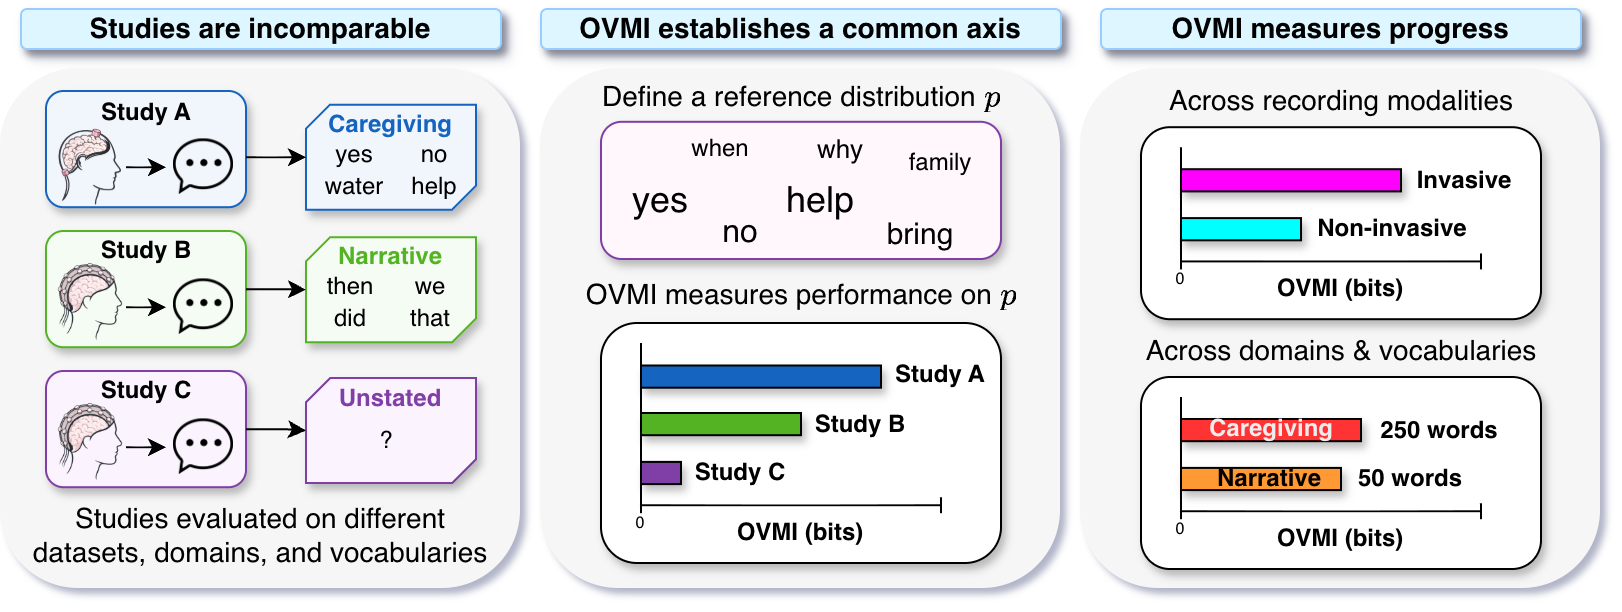
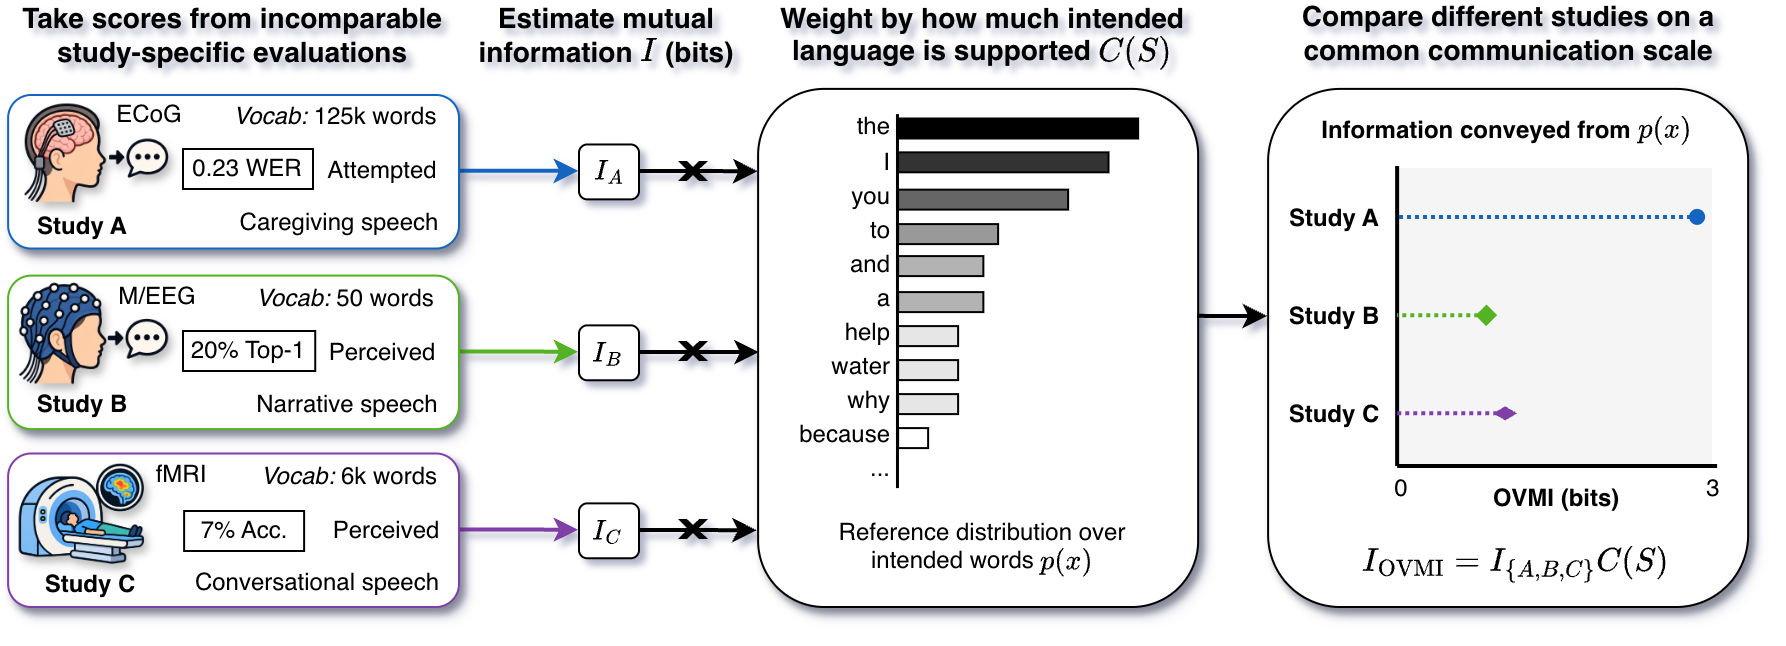
Update links

diff --git a/site/index.html b/site/index.html
@@ -43,7 +43,7 @@
         </p>
         <p class="paper-affiliation"><a href="https://neural-processing-lab.github.io/" rel="noopener noreferrer">PNPL🍍, University of Oxford</a></p>
         <div class="hero-actions" aria-label="Project links">
-          <a class="button button-primary" data-config-link="paper" href="#project-links">
+          <a class="button button-primary" data-config-link="paper" href="https://arxiv.org/abs/2609.02887" rel="noopener noreferrer">
             <svg class="button-icon" viewBox="0 0 20 20" aria-hidden="true"><path d="M5.5 2.5h6l3 3v12h-9z"/><path d="M11.5 2.5v3h3M8 9h4M8 12h4M8 15h3"/></svg>
             <span>Paper</span>
           </a>
@@ -150,7 +150,7 @@
       <div class="leaderboard-notes">
         <aside id="methodology">
           <h3>How are scores calculated?</h3>
-          <p>Historical results are estimated from reported accuracy or WER where full decoder channels are unavailable. <a data-config-link="paper" href="#project-links">See the paper</a> for assumptions and uncertainty estimation.</p>
+          <p>Historical results are estimated from reported accuracy or WER where full decoder channels are unavailable. <a data-config-link="paper" href="https://arxiv.org/abs/2609.02887" rel="noopener noreferrer">See the paper</a> for assumptions and uncertainty estimation.</p>
         </aside>
         <aside id="add-result">
           <h3>Add a result</h3>
@@ -214,12 +214,12 @@ print(score)</code></pre>
         <div>
           <p class="section-index">Citation</p>
           <h3>Cite this paper</h3>
-          <p>The repository does not yet contain the final arXiv identifier. Replace <code>PLACEHOLDER</code> when it is assigned.</p>
+          <p>Use the following BibTeX entry to cite the arXiv preprint.</p>
         </div>
         <pre><code>@article{jayalath2026ovmi,
   title={A Common Measure of Communication for Speech Brain--Computer Interfaces},
   author={Jayalath, Dulhan and Ballyk, Benjamin and Parker Jones, Oiwi},
-  journal={arXiv preprint arXiv:PLACEHOLDER},
+  journal={arXiv preprint arXiv:2609.02887},
   year={2026}
 }</code></pre>
       </div>
@@ -229,7 +229,7 @@ print(score)</code></pre>
       <p class="section-index">05 / Project</p>
       <h2 id="links-title">Paper and project links</h2>
       <div class="link-status-grid">
-        <p id="paper-status"><strong>Paper.</strong> The public paper URL has not yet been supplied. Update <code>site/config.js</code> when it is available.</p>
+        <p id="paper-status"><strong>Paper.</strong> <a href="https://arxiv.org/abs/2609.02887" rel="noopener noreferrer">Read the arXiv preprint.</a></p>
         <p id="blog-status"><strong>Blog.</strong> The public article URL has not yet been supplied. Update <code>site/config.js</code> when it is available.</p>
       </div>
     </section>

diff --git a/site/config.js b/site/config.js
@@ -3,7 +3,7 @@ window.OVMI_SITE_CONFIG = Object.freeze({
   repositoryUrl: "https://github.com/neural-processing-lab/OVMI",
   packageUrl: "https://github.com/neural-processing-lab/OVMI",
   addResultUrl: "https://github.com/neural-processing-lab/OVMI/issues/new?template=add-ovmi-result.yml",
-  paperUrl: null,
+  paperUrl: "https://arxiv.org/abs/2609.02887",
   blogUrl: null,
   unavailableLinkTarget: "#project-links"
 });

diff --git a/scripts/make_contour_figure.py b/scripts/make_contour_figure.py
@@ -23,6 +23,7 @@ DEFAULT_FRONTIER_INPUT = PROJECT_ROOT / "data/noiseless_frequency_frontier.csv"
 DEFAULT_OUTPUT_DIR = PROJECT_ROOT / "figures"
 CONTOUR_LEVELS = (0.01, 0.1, 1.0, 3.0, 10.0)
 REFERENCE_STEMS = {"subtlex-uk": "subtlex"}
+ISO_CONTOUR_COLOR = "#51406F"
 
 COLORS = {
     "MEG-MASC": "#0072B2",
@@ -214,36 +215,38 @@ def draw_contours(axis, x_limits, y_limits, scale: str) -> None:
     for index, level in enumerate(CONTOUR_LEVELS):
         y = level / x
         visible = (y >= y_limits[0]) & (y <= y_limits[1])
-        axis.plot(x[visible], y[visible], color="#A7ADB3", linewidth=1.25, zorder=0)
+        # Keep iso-OVMI guides subordinate to the grid and data marks.
+        axis.plot(
+            x[visible], y[visible], color=ISO_CONTOUR_COLOR, linewidth=0.85,
+            alpha=0.62, zorder=-3,
+        )
         if not np.any(visible):
             continue
         visible_indices = np.flatnonzero(visible)
         if scale == "log":
-            # Fixed anchors keep contour labels out of the dense system clusters.
-            target_x = {
-                0.01: 0.13,
-                0.1: 0.65,
-                1.0: 0.38,
-                3.0: 0.35,
-                10.0: 0.84,
-            }[level]
-            label_index = visible_indices[
-                np.argmin(np.abs(x[visible_indices] - target_x))
-            ]
+            # Put every label at the right-hand end of its contour, where it
+            # reads as a family of parallel guides rather than point labels.
+            if level == 10.0 and scale == "log":
+                target_x = min(x_limits[1] * 0.82, float(x[visible_indices[-1]]))
+                label_index = visible_indices[
+                    np.argmin(np.abs(x[visible_indices] - target_x))
+                ]
+            else:
+                label_index = visible_indices[-1]
         elif level in {0.01, 0.1}:
             label_fraction = {0.01: 0.82, 0.1: 0.72}[level]
         else:
             label_fraction = 0.55 if level == 10 else 0.25 + 0.11 * (index % 3)
         if scale != "log":
             label_index = visible_indices[int(label_fraction * (len(visible_indices) - 1))]
-        rotation = -31 if scale == "log" and level < 10 else 0
-        vertical_alignment = "top" if scale == "log" and level >= 3 else "bottom"
+        rotation = 0
+        vertical_alignment = "top" if scale == "log" and level >= 10 else "bottom"
         axis.text(
             x[label_index], y[label_index], f"{level:g} bit" + ("s" if level != 1 else ""),
-            color="#626A73", fontsize=9.0, fontweight="semibold", rotation=rotation,
-            ha="center", va=vertical_alignment, clip_on=True,
-            bbox={"facecolor": "white", "edgecolor": "none", "alpha": 0.72, "pad": 0.35},
-            zorder=1,
+            color=ISO_CONTOUR_COLOR, fontsize=8.5, fontweight="semibold", rotation=rotation,
+            ha="right", va=vertical_alignment, clip_on=True,
+            bbox={"facecolor": "white", "edgecolor": "none", "alpha": 1.0, "pad": 0.35},
+            zorder=6,
         )
 
 
@@ -371,9 +374,9 @@ def add_legend(
     axis, data: pd.DataFrame, neural_only: bool, styled: bool = False,
 ) -> None:
     encoding_handles = [
-        Line2D([], [], marker="o", markersize=7.5, linestyle="none", markerfacecolor="white", markeredgecolor="#374151", markeredgewidth=1.4, label="Perceived / non-invasive"),
-        Line2D([], [], marker="o", markersize=7.5, linestyle="none", markerfacecolor="#6B7280", markeredgecolor="#374151", markeredgewidth=1.4, label="Attempted / invasive"),
-        Line2D([], [], color="#A7ADB3", linewidth=1.25, label=r"Iso-OVMI (slope $-1$)"),
+        Line2D([], [], marker="o", markersize=7.5, linestyle="none", markerfacecolor="white", markeredgecolor="#374151", markeredgewidth=1.4, label="Open markers: non-invasive"),
+        Line2D([], [], marker="s", markersize=7.0, linestyle="none", markerfacecolor="#374151", markeredgecolor="#374151", markeredgewidth=1.4, label="Filled markers: invasive"),
+        Line2D([], [], color=ISO_CONTOUR_COLOR, alpha=0.72, linewidth=0.85, label=r"Iso-OVMI (slope $-1$)"),
         Line2D([], [], color="#6B7280", linestyle=(0, (3.0, 2.3)), linewidth=1.15, label="Noiseless frequency-\nselected decoder"),
     ]
     if styled:
@@ -381,13 +384,13 @@ def add_legend(
             handles=styled_system_legend_handles(data, neural_only),
             loc="upper left", bbox_to_anchor=(1.025, 1.0),
             borderaxespad=0.0, frameon=False, fontsize=7.7,
-            handletextpad=0.55, labelspacing=0.15,
+            handletextpad=0.55, labelspacing=0.44,
         )
         axis.add_artist(system_legend)
         axis.legend(
             handles=encoding_handles, loc="lower left",
             bbox_to_anchor=(1.025, 0.0), borderaxespad=0.0,
-            frameon=False, handletextpad=0.6, labelspacing=0.30,
+            frameon=False, handletextpad=0.6, labelspacing=0.56,
             fontsize=7.8,
         )
     else:
@@ -427,6 +430,11 @@ def draw_panel(
     )
     axis.set_ylabel(r"$I(X;Y\mid X\in S)$ (bits)")
     axis.grid(True, which="major", color="#E2E5E9", linewidth=0.7, zorder=-2)
+    if scale == "log":
+        axis.grid(
+            True, which="minor", axis="x", color="#EEF0F2",
+            linewidth=0.45, alpha=0.9, zorder=-2,
+        )
     axis.tick_params(which="major", direction="out", length=4.5, width=1.1, pad=5)
     axis.tick_params(axis="x", which="major", pad=2)
     axis.tick_params(which="minor", direction="out", length=2.5, width=0.8)

diff --git a/scripts/make_reference_heatmap.py b/scripts/make_reference_heatmap.py
@@ -57,6 +57,7 @@ class HeatmapData:
     highs: np.ndarray
     uncertainty_kinds: tuple[str, ...]
     entropies: dict[str, float]
+    reference_sizes: dict[str, int]
 
 
 ROW_SPECS = (
@@ -68,7 +69,7 @@ ROW_SPECS = (
     HeatmapRow("tang_2023_v6867", "system", "Tang"),
     HeatmapRow(
         "dascoli_libribrain100_s0_v50", "neural",
-        "LibriBrain",
+        "LibriBrain100",
     ),
 )
 
@@ -112,6 +113,9 @@ def load_matrix(
     systems = pd.read_csv(systems_path)
     systems = systems.loc[systems["plot_eligible"].astype(bool)].copy()
     references, entropies = table.load_references(references_dir)
+    reference_sizes = {
+        key: len(references[key]) for key in REFERENCE_KEYS
+    }
     vocabularies = table.reconstruct_vocabularies(
         systems, references, predictions_dir, cmudict_path, armeni_text_path,
         meg_masc_vocabulary_path,
@@ -162,6 +166,7 @@ def load_matrix(
         highs=highs,
         uncertainty_kinds=tuple(uncertainty_kinds),
         entropies=entropies,
+        reference_sizes=reference_sizes,
     )
 
 
@@ -207,6 +212,12 @@ def draw_figure(data: HeatmapData):
     axis.tick_params(axis="x", which="major", length=0, pad=9)
     for label in axis.get_xticklabels():
         label.set_linespacing(1.30)
+    for column_index, reference_key in enumerate(REFERENCE_KEYS):
+        axis.text(
+            column_index, -0.055, f"V={data.reference_sizes[reference_key]:,}",
+            transform=axis.get_xaxis_transform(), ha="center", va="top",
+            fontsize=9.0, color="#374151",
+        )
     axis.tick_params(axis="y", which="major", length=0, pad=8, labelsize=10.0)
 
     axis.set_xticks(np.arange(-0.5, len(REFERENCE_LABELS), 1), minor=True)
@@ -253,22 +264,24 @@ def save_figure(figure, output_base: Path) -> None:
         print(f"Saved {output}")
 
 
-def write_caption(path: Path, entropies: dict[str, float]) -> None:
+def write_caption(
+    path: Path, entropies: dict[str, float], reference_sizes: dict[str, int],
+) -> None:
     entropy_text = ", ".join(
-        f"{label} {entropies[key]:.2f} bits"
+        f"{label} (V={reference_sizes[key]:,}), {entropies[key]:.2f} bits"
         for key, label in zip(REFERENCE_KEYS, REFERENCE_CAPTION_LABELS)
     )
     caption = (
         "Normalised OVMI across communication targets. Cell labels report "
         "OVMI/$H(p)$ as percentages; brackets give propagated 95\% intervals "
         "for invasive systems, while $\pm$ gives SEM across three training seeds "
-        "for LibriBrain or three participants for Tang; neither is a confidence "
+        "for LibriBrain100 or three participants for Tang; neither is a confidence "
         "interval. Reference distributions "
         "are treated as fixed. Colour uses a logarithmic 1--100\% scale "
         "to retain contrast among the lower-scoring systems. The invasive rows "
         "show the selected LM-assisted operating points, with Moses isolated "
         "retained as the corresponding neural-only result. The non-invasive rows "
-        "are Tang's participant-mean fMRI result and the d'Ascoli--LibriBrain "
+        "are Tang's participant-mean fMRI result and the d'Ascoli--LibriBrain100 "
         "method--dataset pair. Reference "
         "entropies are: "
         f"{entropy_text}."
@@ -299,7 +312,7 @@ def main() -> None:
     figure = draw_figure(data)
     save_figure(figure, args.output_base)
     plt.close(figure)
-    write_caption(args.caption_output, data.entropies)
+    write_caption(args.caption_output, data.entropies, data.reference_sizes)
 
 
 if __name__ == "__main__":

diff --git a/scripts/make_progress_over_time_figure.py b/scripts/make_progress_over_time_figure.py
@@ -55,46 +55,46 @@ class ProgressPoint:
 
 POINT_SPECS = (
     (
-        "moses_2021_v50", "neural", "Moses isolated (50)", 2021,
+        "moses_2021_v50", "neural", "Moses isolated (V=50)", 2021,
         "^", COLORS["Moses et al."], -9.0, (-5.0, 9.0),
     ),
     (
-        "moses_2021_v50", "system", "Moses +LM (50)", 2021,
+        "moses_2021_v50", "system", "Moses +LM (V=50)", 2021,
         "v", COLORS["Moses et al."], 0.0, (5.0, 9.0),
     ),
     (
-        "willett_2023_v50", "neural", "Willett isolated (50)", 2023,
+        "willett_2023_v50", "neural", "Willett isolated (V=50)", 2023,
         "P", COLORS["Willett et al."], -8.0, (-13.0, 9.0),
     ),
     (
-        "willett_2023_v50", "system", "Willett +LM (50)", 2023,
+        "willett_2023_v50", "system", "Willett +LM (V=50)", 2023,
         "X", COLORS["Willett et al."], 8.0, (13.0, 9.0),
     ),
     (
-        "willett_2023_v125k", "system", "Willett +LM (125k)", 2023,
+        "willett_2023_v125k", "system", "Willett +LM (V=125k)", 2023,
         "h", COLORS["Willett et al."], 0.0, (0.0, 9.0),
     ),
     (
-        "tang_2023_v6867", "system", "Tang +LM", 2023,
+        "tang_2023_v6867", "system", "Tang +LM (V=6,867)", 2023,
         "p", COLORS["Tang et al."], 18.0, (2.0, 9.0),
     ),
     (
-        "card_2024_v125k", "system", "Card +LM (125k)", 2024,
+        "card_2024_v125k", "system", "Card +LM (V=125k)", 2024,
         "*", COLORS["Card et al."], 0.0, (0.0, -15.0),
     ),
     (
         "dascoli_libribrain100_s0_v50", "neural",
-        "d'Ascoli–LibriBrain", 2025,
+        "d'Ascoli–LibriBrain100 (V=50)", 2025,
         "s", COLORS["LibriBrain100"], -8.0, (-10.0, 9.0),
     ),
     (
         "armeni_2022_v50", "neural",
-        "d'Ascoli–Armeni", 2023,
+        "d'Ascoli–Armeni (V=50)", 2023,
         "D", COLORS["Armeni et al."], 8.0, (11.0, 22.0),
     ),
     (
         "meg_masc_2023_v50", "neural",
-        "MEG-XL–MEG-MASC", 2023,
+        "MEG-XL–MEG-MASC (V=50)", 2023,
         "o", COLORS["MEG-MASC"], 0.0, (0.0, 9.0),
     ),
 )
@@ -408,7 +408,7 @@ def draw_split_figure(points: list[ProgressPoint]):
             handles=system_handles(panel_points, marker_scale=1.18), loc="upper center",
             bbox_to_anchor=(0.5, -0.42), borderaxespad=0.0,
             frameon=False, handlelength=1.1, handletextpad=0.9,
-            labelspacing=0.8, columnspacing=1.8, ncol=2, fontsize=7.5,
+            labelspacing=0.8, columnspacing=1.8, ncol=2, fontsize=7.8,
         )
 
     return figure

diff --git a/tests/test_progress_over_time_figure.py b/tests/test_progress_over_time_figure.py
@@ -117,7 +117,7 @@ class ProgressOverTimeFigureTests(unittest.TestCase):
         latex = progress_table.render_table(rows)
         self.assertEqual(len(rows), 10)
         self.assertIn("Tang +LM & 6,867", latex)
-        self.assertIn("d'Ascoli–LibriBrain & 50", latex)
+        self.assertIn("d'Ascoli–LibriBrain100 & 50", latex)
         self.assertIn("MEG-XL–MEG-MASC & 50", latex)
         self.assertIn(r"$\geq 74.4\%$", latex)
         self.assertIn("0.033 & 0.3\\%", latex)

diff --git a/tests/test_site.py b/tests/test_site.py
@@ -200,7 +200,7 @@ class StaticSiteTests(unittest.TestCase):
             "A Common Measure of Communication for Speech Brain--Computer Interfaces",
             self.html,
         )
-        self.assertIn("arXiv preprint arXiv:PLACEHOLDER", self.html)
+        self.assertIn("arXiv preprint arXiv:2609.02887", self.html)
 
     def test_pages_workflow_and_submission_template_exist(self):
         workflow = (

diff --git a/tests/test_reference_heatmap.py b/tests/test_reference_heatmap.py
@@ -31,6 +31,7 @@ class ReferenceHeatmapTests(unittest.TestCase):
         self.assertTrue(np.all(self.data.values <= self.data.highs))
 
     def test_uncertainty_kinds_are_not_pooled(self):
+        self.assertEqual(heatmap.ROW_SPECS[-1].label, "LibriBrain100")
         self.assertEqual(
             self.data.uncertainty_kinds,
             (

diff --git a/README.md b/README.md
@@ -2,12 +2,12 @@
 
 **Website / explorer:** <https://neural-processing-lab.github.io/OVMI/>
 
-[![arXiv](https://img.shields.io/badge/arXiv-PLACEHOLDER-b31b1b.svg)](https://arxiv.org/abs/PLACEHOLDER)
+[![arXiv](https://img.shields.io/badge/arXiv-2609.02887-b31b1b.svg)](https://arxiv.org/abs/2609.02887)
 [![License](https://img.shields.io/badge/License-MIT-green.svg)](LICENSE)
 
 `ovmi` is a lightweight python package that computes **open-vocabulary mutual information (OVMI)**, a comparison metric for speech brain-computer interfaces (BCIs). OVMI is a simple measure of the mutual information between a user's intent and the output of a speech BCI under an assumed reference distribution. Most users should start with the library defaults.
 
-**Paper:** ["A Common Measure of Communication for Speech Brain-Computer Interfaces"](https://arxiv.org/abs/PLACEHOLDER)
+**Paper:** ["A Common Measure of Communication for Speech Brain-Computer Interfaces"](https://arxiv.org/abs/2609.02887)
 
 ![OVMI Overview](assets/teaser.png)
 
@@ -24,7 +24,7 @@ If you find this work helpful in your research, please cite the paper:
 @article{jayalath2026ovmi,
   title={A Common Measure of Communication for Speech Brain--Computer Interfaces},
   author={Jayalath, Dulhan and Ballyk, Benjamin and Parker Jones, Oiwi},
-  journal={arXiv preprint arXiv:PLACEHOLDER},
+  journal={arXiv preprint arXiv:2609.02887},
   year={2026}
 }
 ```
